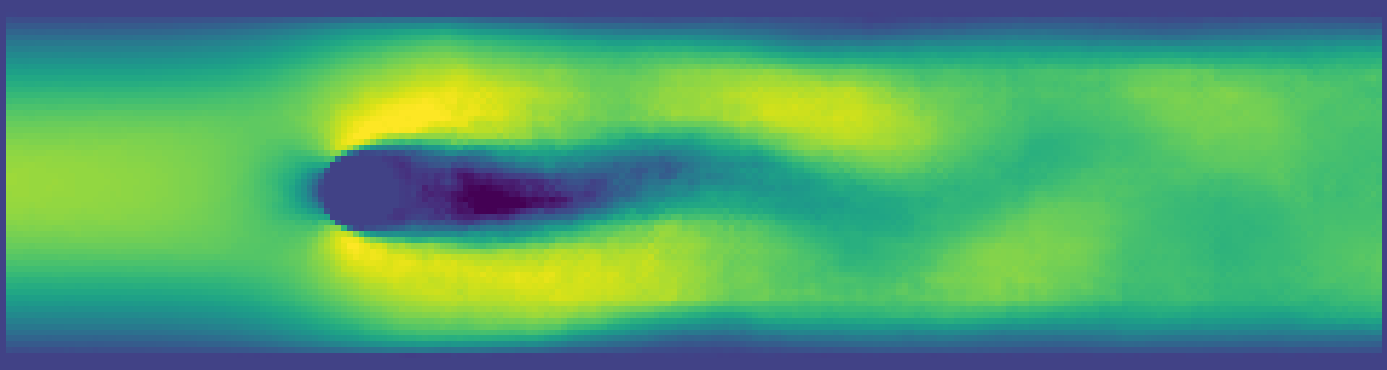
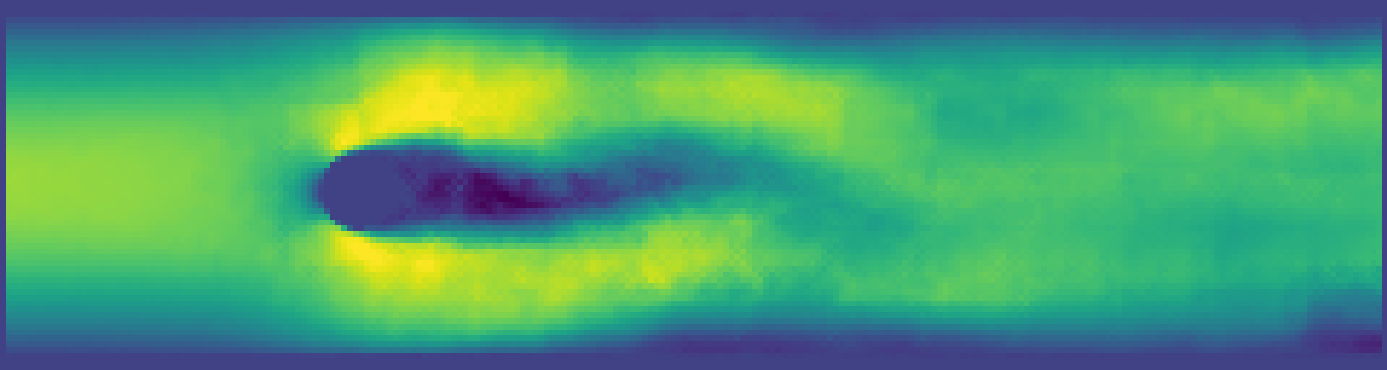
cylidner_large

diff --git a/src/inference.py b/src/inference.py
@@ -84,7 +84,7 @@ def test_generate(model: MultivariateTimeLLM, dl, batch_num=0):
 
     start_step = 1
     ctx_states = 1
-    pred_steps = 101  # Number of diffs. States is -1.
+    pred_steps = 251  # Number of diffs. States is -1.
     start_cut = start_step - ctx_states
     end_state = pred_steps + ctx_states - 1
 
@@ -149,8 +149,8 @@ def test_generate(model: MultivariateTimeLLM, dl, batch_num=0):
 
 def main():
     load_no = -2
-    save_epoch = 500
-    seq_len = 151
+    save_epoch = 180
+    seq_len = 253
     bs = 1
 
     plot_batch_num = 0
